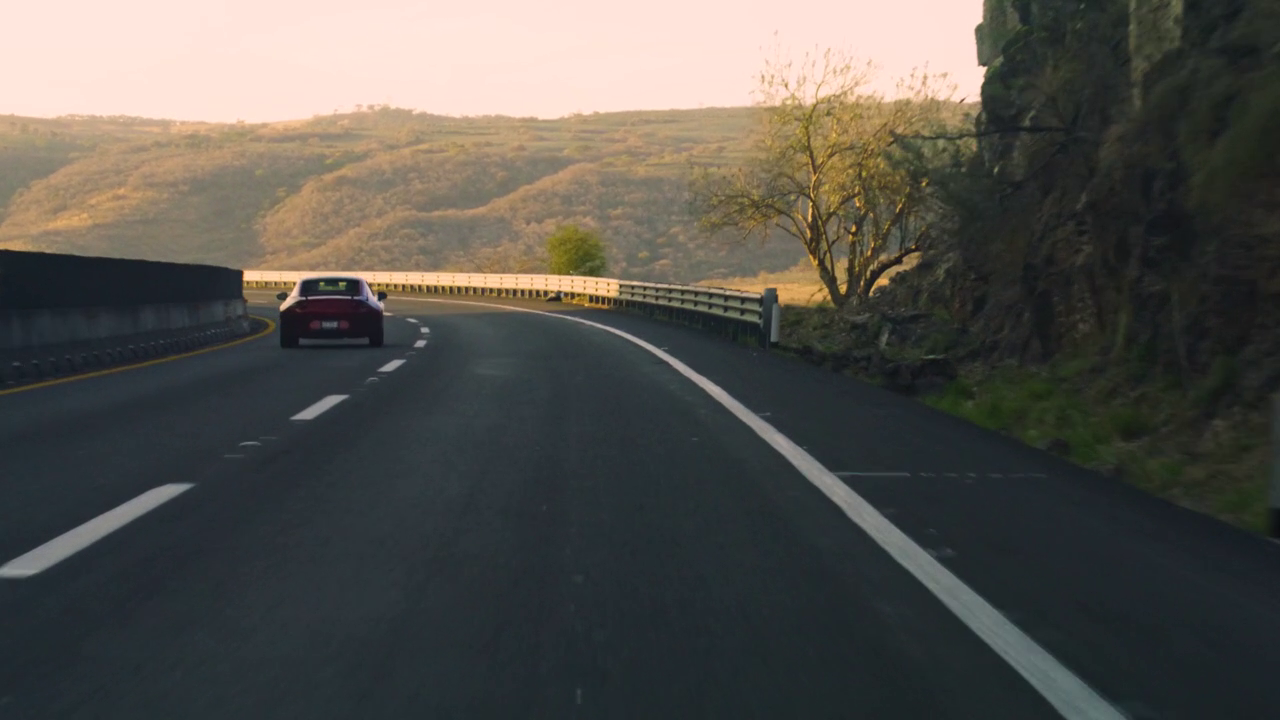
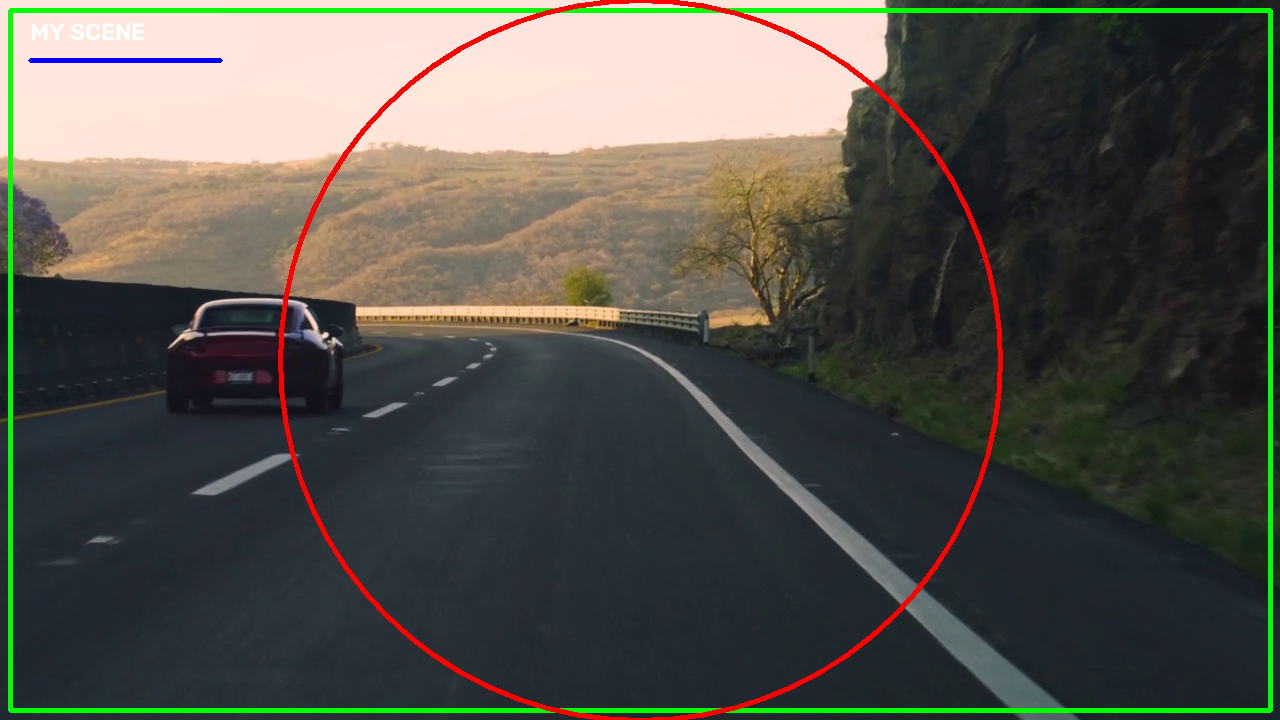
append bright diffrence on video

diff --git a/video_bright.py b/video_bright.py
@@ -20,21 +20,21 @@ while True:
     if not ret:
         break
 
-    result = frame.copy()
-    result = cv2.line(result, (30,60), (220,60), (255,0,0), 3)
-    result = cv2.rectangle(result, (10,10), (1270,710), (0,255,0), 3)
-    result = cv2.circle(result, (640,360), 360, (0,0,255), 3)
+    frame = cv2.resize(frame, (640,360))
 
-    result = cv2.putText(result, 'MY SCENE', (30,40),
-                        cv2.FONT_HERSHEY_SIMPLEX, 0.8,
-                        (255,255,255), 2, cv2.LINE_AA)
+    gray = cv2.cvtColor(frame, cv2.COLOR_BGR2GRAY)
+    dark = cv2.subtract(gray, 60)
+    bright = cv2.add(gray, 60)
+
+    cv2.imshow('CAPTURE', gray)
+    cv2.imshow('dark', dark)
+    cv2.imshow('bright', bright)
     
-    cv2.imshow('CAPTURE', result)
 
     key = cv2.waitKey(delay) & 0xFF
 
     if key == ord('s'):
-        print('saved:', cv2.imwrite(str(target), result))
+        print('saved:', cv2.imwrite(str(target), gray))
 
     if key == ord('q'):
         break

diff --git a/test2.py b/test2.py
@@ -1,0 +1,5 @@
+import cv2 
+
+path = str('road.jpg')
+color = cv2.cvtColor(path, cv2.COLOR_BGR2GRAY)
+
